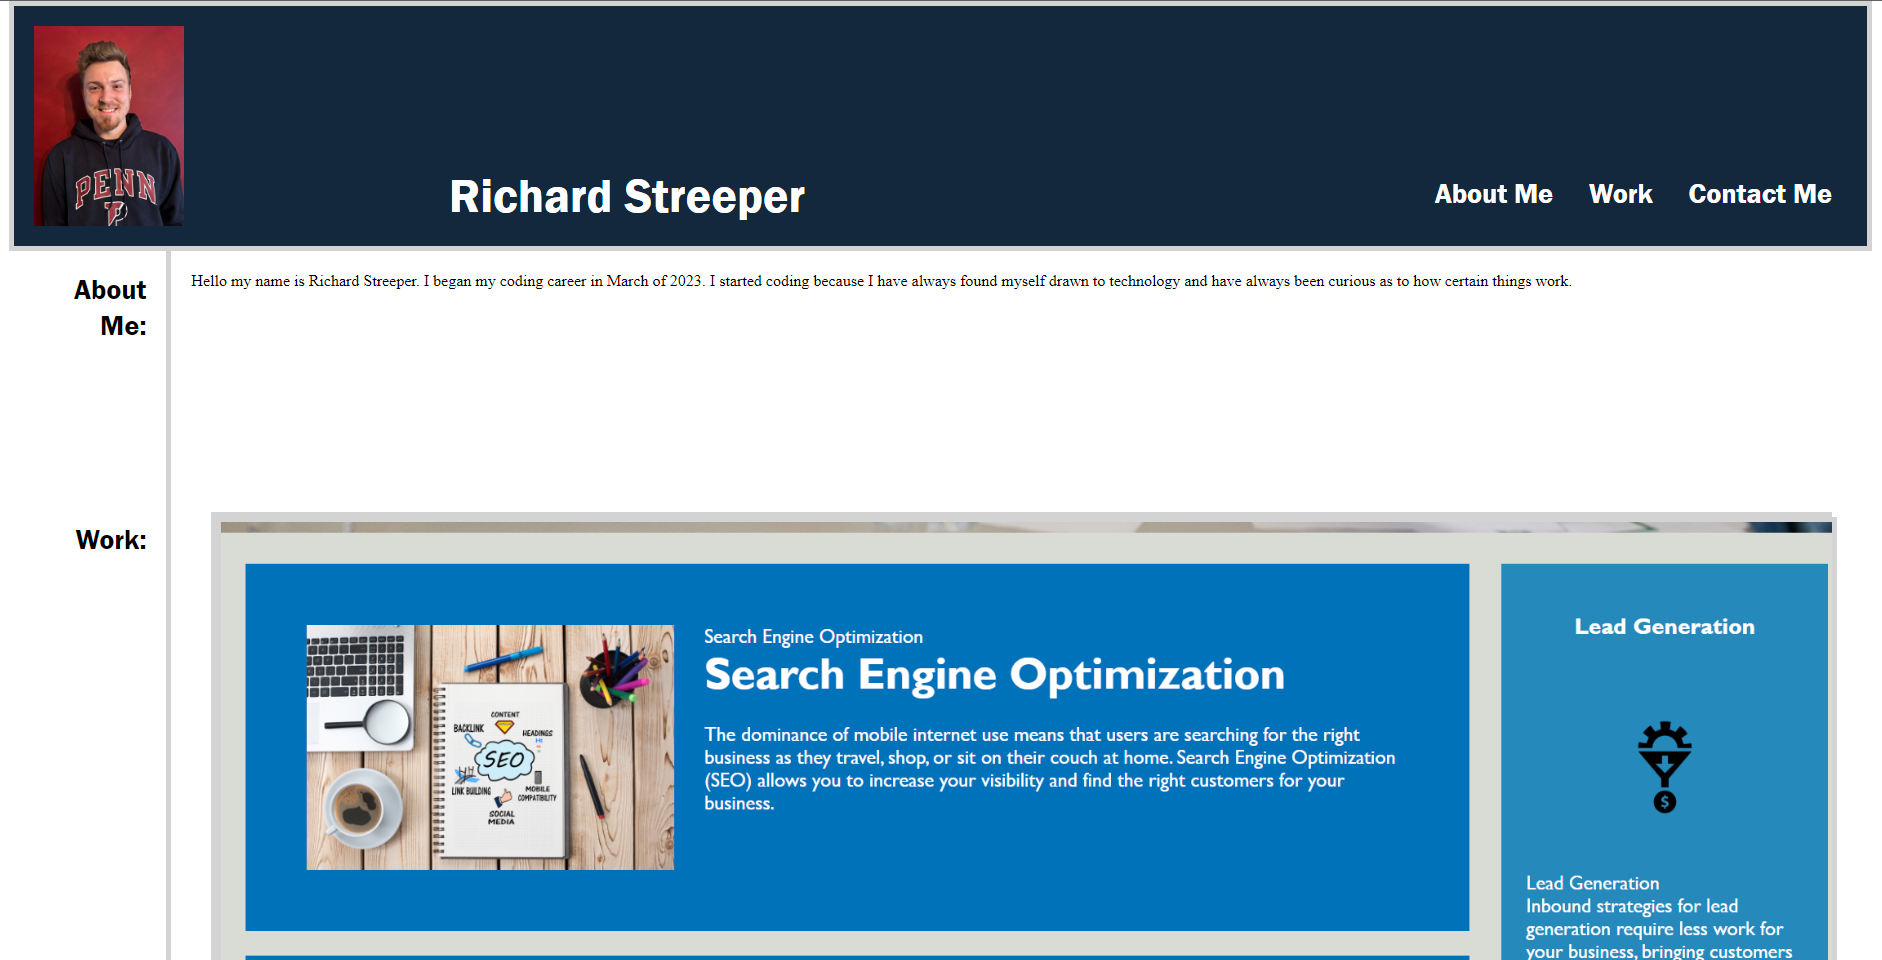
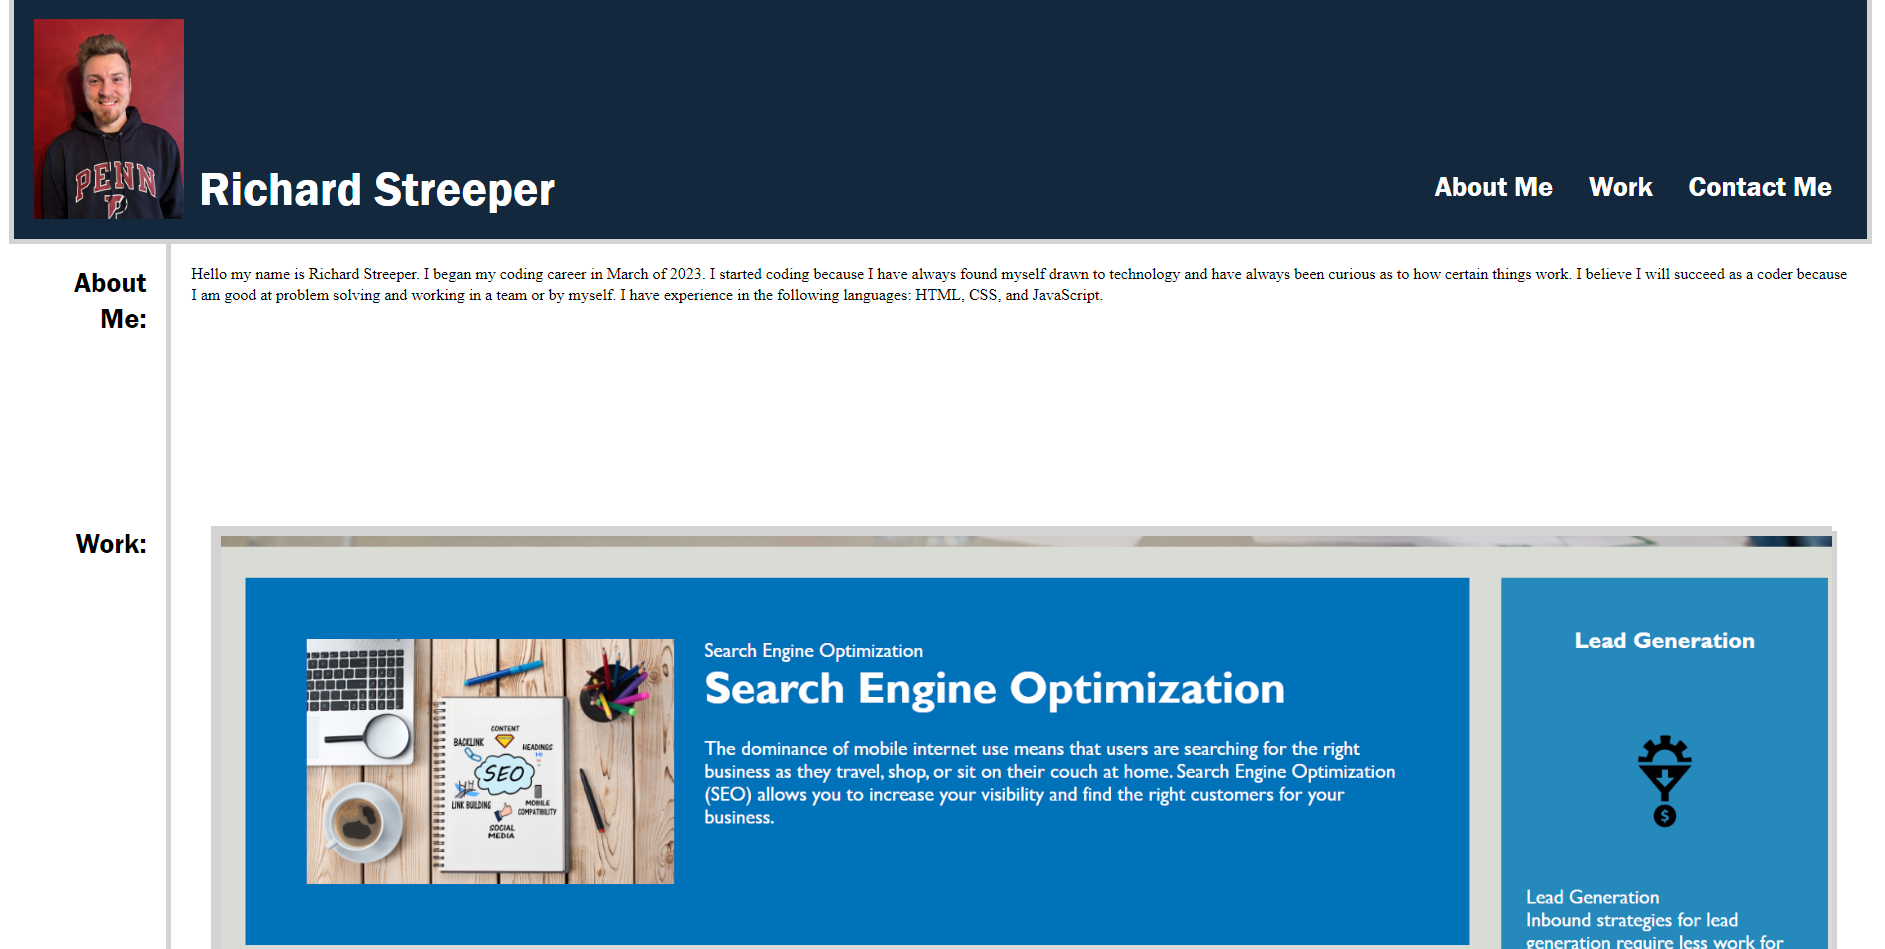
added image links and details to read.me

diff --git a/index.html b/index.html
@@ -30,13 +30,14 @@
             <h2 id="contact">Contact Me: </h2>
         </aside>    
         <section>
-            <p id="bio">Hello my name is Richard Streeper. I began my coding career in March of 2023. I started coding because I have always found myself drawn to technology and have always been curious as to how certain things work. </p>
+            <p id="bio">Hello my name is Richard Streeper. I began my coding career in March of 2023. I started coding because I have always found myself drawn to technology and have always been curious as to how certain things work. I believe I will succeed as a coder because I am good at problem solving and working in a team or by myself. I have experience in the following languages: HTML, CSS, and JavaScript. </p>
             <div id="workbody">
                 <a href="https://rstreep.github.io/horiseon-refactor/" id="horeison"><img id="horeison" src="./assets/images/_C__Users_stree_workspace_horiseon-refactor_index.html.png"></img>
                     </a>
                 <a href="https://rstreep.github.io/Prework-Study-Guide/" id="prework"><img id="prework" src="./assets/images/_C__Users_stree_bootcamp_Prework-Study-Guide_prework-study-guide_index.html.png"></img></a>
-                <img id="placeholder1" src="./assets/images/angrycorgi.jpg"></img>
-                <img id="placeholder2" src="./assets/images/gentlemancorgi.jpg"></img>
+                <a href="https://rstreep.github.io/Prework-Study-Guide/" id="placeholder1"><img id="placeholder1" src="./assets/images/_C__Users_stree_bootcamp_Prework-Study-Guide_prework-study-guide_index.html.png"></img></a>
+                <a href="https://rstreep.github.io/Prework-Study-Guide/" id="placeholder2"><img id="placeholder2" src="./assets/images/_C__Users_stree_bootcamp_Prework-Study-Guide_prework-study-guide_index.html.png"></img></a>
+                
             </div>
             <div id="contactfooter">
                 <ul>

diff --git a/assets/css/style.css b/assets/css/style.css
@@ -52,7 +52,7 @@ nav ul:hover {
 }
 
 h1 {
-    margin-right: 350px;
+    margin-right: 850px;
 
 }
 
@@ -127,7 +127,7 @@ section {
 
 #placeholder1 {
     height: 200px;
-    width: 30%;
+    width: 390px;
     border: 5px solid lightgray;
     object-fit: cover;
 }
@@ -139,7 +139,7 @@ section {
 
 #placeholder2 {
     height: 200px;
-    width: 30%;
+    width: 390px;
     border: 5px solid lightgray;
     object-fit: cover;
 }
